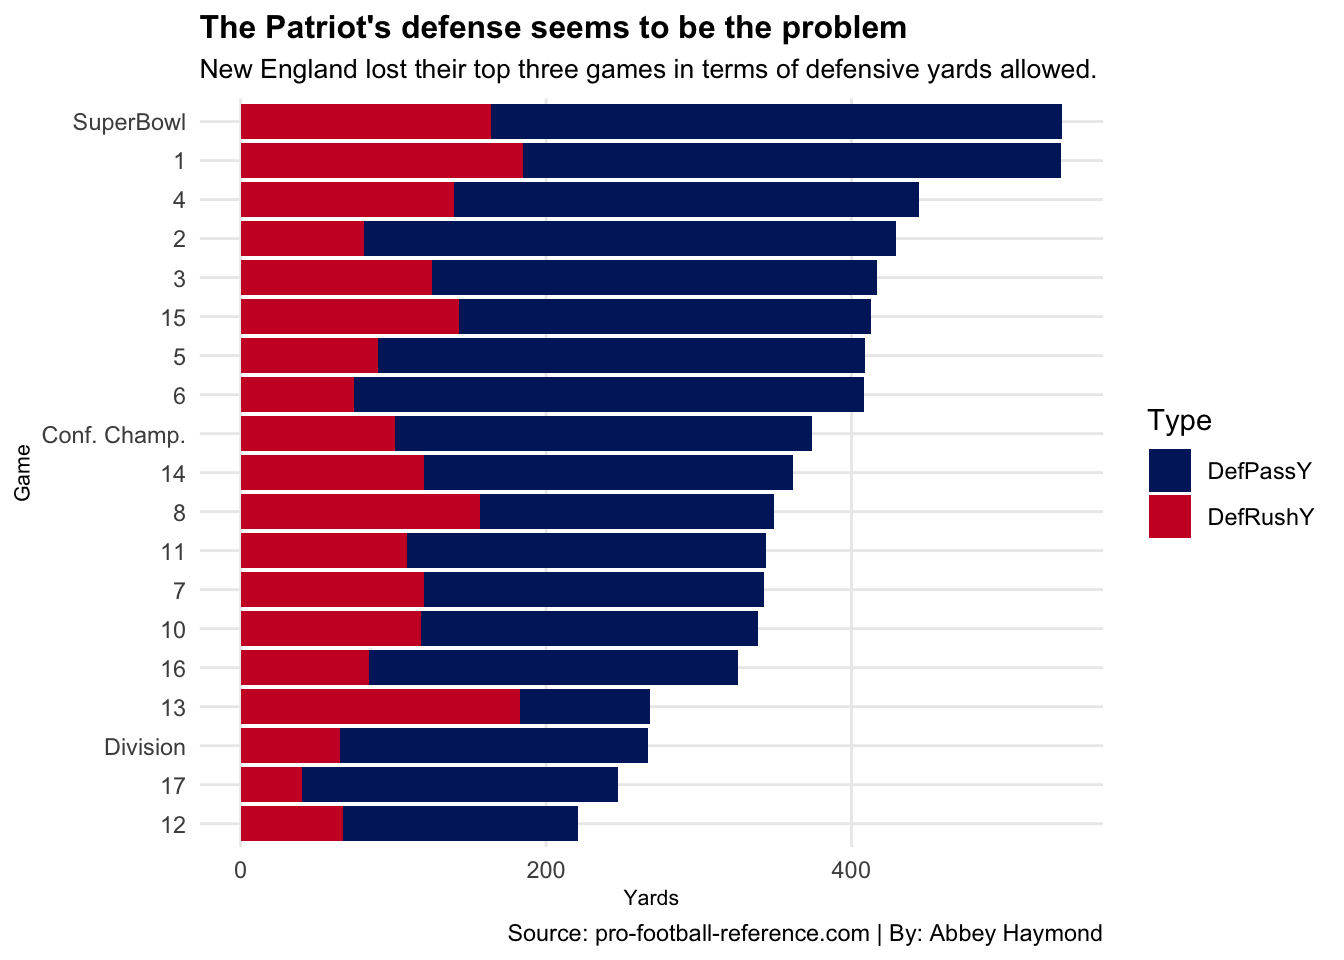
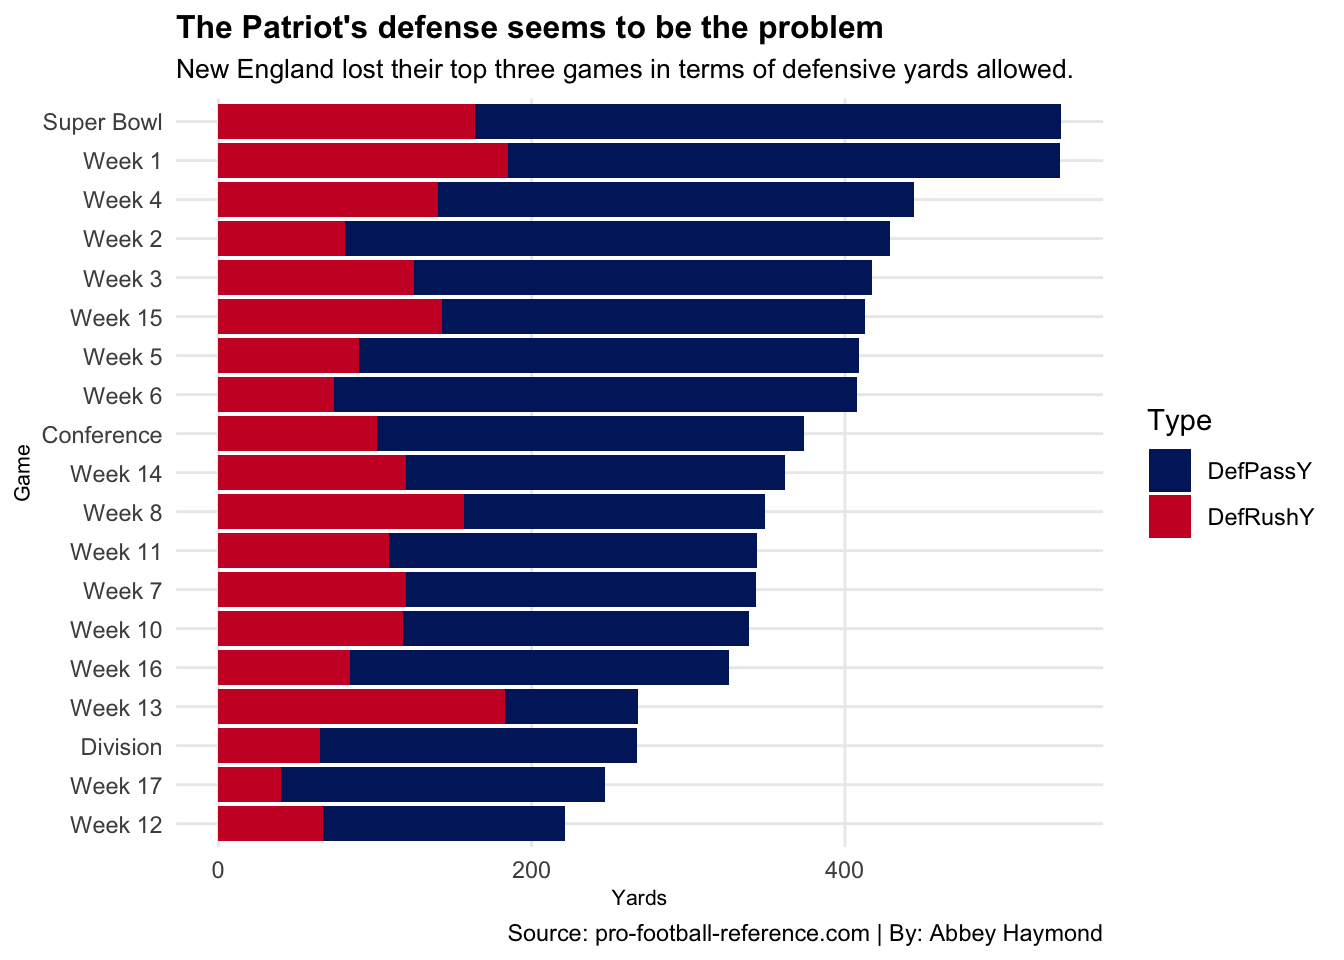
project update

diff --git a/2021/04/02/patriots-in-super-bowl-2018/index.html b/2021/04/02/patriots-in-super-bowl-2018/index.html
@@ -96,7 +96,6 @@ library(kableExtra)</code></pre>
 <pre><code>## The following object is masked from &#39;package:dplyr&#39;:
 ## 
 ##     group_rows</code></pre>
-<pre class="r"><code>library(gt)</code></pre>
 <p>To start off, I am working with Super Bowl game data from every team that lost in the past two decades. I focused on the total amount of yards and plays that each team had in the game. The Patriots got their own dataframe, so I can point them out in the chart.</p>
 <pre class="r"><code>sbLdrives &lt;- read_csv(&quot;~/Desktop/Sports Data/Project/sbLdrives.csv&quot;)</code></pre>
 <pre><code>## 
@@ -327,9 +326,27 @@ Time of Possession
 ## )
 ## ℹ Use `spec()` for the full column specifications.</code></pre>
 <pre class="r"><code>nedef &lt;- ne2017 %&gt;% pivot_longer(cols=c(&quot;DefRushY&quot;,&quot;DefPassY&quot;), names_to=&quot;Type&quot;, values_to=&quot;Yards&quot;)
-nedefchart &lt;- nedef %&gt;% filter(Week !=&quot;9&quot;)</code></pre>
+nedefchart &lt;- nedef %&gt;% filter(Week !=&quot;9&quot;)
+nedefchartclean &lt;- read_csv(&quot;~/Desktop/Sports Data/Project/nedefchartclean.csv&quot;)</code></pre>
+<pre><code>## 
+## ── Column specification ────────────────────────────────────────────────────────
+## cols(
+##   .default = col_double(),
+##   Week = col_character(),
+##   Day = col_character(),
+##   Date = col_character(),
+##   X4 = col_character(),
+##   X5 = col_character(),
+##   `W/L` = col_character(),
+##   OT = col_logical(),
+##   Rec = col_character(),
+##   X9 = col_character(),
+##   Opp = col_character(),
+##   Type = col_character()
+## )
+## ℹ Use `spec()` for the full column specifications.</code></pre>
 <p>I looked at how their yards on defense in the Super Bowl compared to their entire season.</p>
-<pre class="r"><code>ggplot(nedefchart, aes(x=reorder(Week, Yards), weight=Yards, fill=Type)) + 
+<pre class="r"><code>ggplot(nedefchartclean, aes(x=reorder(Week, Yards), weight=Yards, fill=Type)) + 
   geom_bar() + 
   coord_flip() +
   labs(
